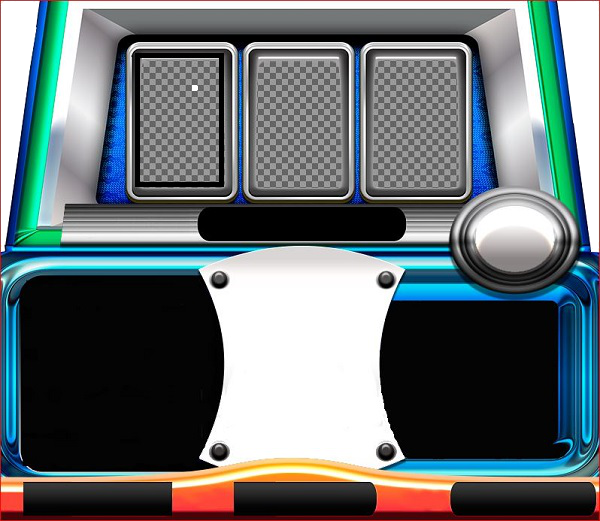
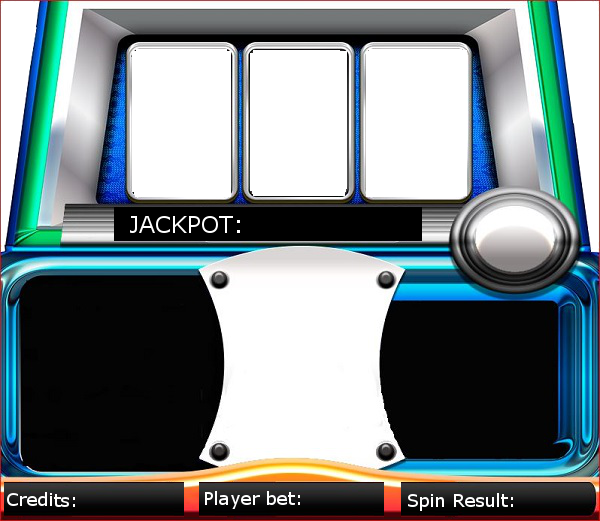
sdded config button and config classes

diff --git a/COMP397-SlotMachine/Scripts/game.js b/COMP397-SlotMachine/Scripts/game.js
@@ -3,6 +3,9 @@
 /// <reference path="typings/tweenjs/tweenjs.d.ts" />
 /// <reference path="typings/soundjs/soundjs.d.ts" />
 /// <reference path="typings/preloadjs/preloadjs.d.ts" />
+/// <reference path="../config/constants.ts" />
+/// <reference path="../objects/label.ts" />
+/// <reference path="../objects/button.ts" />
 // Game Framework Variables
 var canvas = document.getElementById("canvas");
 var stage;
@@ -12,8 +15,57 @@ var manifest = [
     { id: "background", src: "assets/images/slotmachine.png" },
     { id: "clicked", src: "assets/audio/clicked.wav" }
 ];
+var atlas = {
+    "images": [
+        "assets/images/atlas.png"
+    ],
+    "frames": [
+        [2, 2, 80, 112, 0, 0, 0],
+        [84, 2, 80, 105, 0, 0, 0],
+        [166, 2, 95, 97, 0, 0, 0],
+        [263, 2, 93, 97, 0, -1, -1],
+        [358, 2, 95, 96, 0, 0, 0],
+        [455, 2, 80, 88, 0, 0, 0],
+        [537, 2, 80, 85, 0, 0, 0],
+        [619, 2, 80, 84, 0, 0, 0],
+        [701, 2, 80, 78, 0, 0, 0],
+        [783, 2, 76, 76, 0, -2, -4],
+        [861, 2, 65, 67, 0, 0, 0],
+        [928, 2, 65, 67, 0, 0, 0],
+        [995, 2, 65, 67, 0, 0, 0],
+        [1062, 2, 65, 66, 0, 0, 0],
+        [1129, 2, 65, 66, 0, 0, 0],
+        [1196, 2, 65, 66, 0, 0, 0],
+        [1263, 2, 65, 66, 0, 0, 0],
+        [1330, 2, 65, 66, 0, 0, 0],
+        [1397, 2, 80, 62, 0, 0, 0]
+    ],
+    "animations": {
+        "777": [6],
+        "cup": [0],
+        "flag": [1],
+        "resetbutton": [2],
+        "powerbutton": [3],
+        "spin": [4],
+        "stadium": [5],
+        "blank": [7],
+        "whistle": [8],
+        "ball": [9],
+        "bet100": [10],
+        "bet50": [11],
+        "bet500": [12],
+        "bet1": [13],
+        "bet10": [14],
+        "bet2": [15],
+        "bet25": [16],
+        "bet5": [17],
+        "cards": [18]
+    }
+};
 // Game Variables
 var background;
+var textureAtlas;
+var spinButton;
 //preloader Function
 function preload() {
     assets = new createjs.LoadQueue();
@@ -21,6 +73,8 @@ function preload() {
     // event listinener handler triggers hwne assets are completely loaded
     assets.on("complete", init, this);
     assets.loadManifest(manifest);
+    //Load Texture Atlas
+    textureAtlas = new createjs.SpriteSheet(atlas);
     //setup staistics object
     setupStats();
     //call back function that Initializing game objects
@@ -49,7 +103,7 @@ function preload() {
         stage.update();
     }
     //callback function that allows me to respond to button click events
-    function pinkButtonClicked(event) {
+    function spinButtonClicked(event) {
         createjs.Sound.play("clicked");
     }
     //callback function that cahnges the alpha transparency of the button
@@ -59,6 +113,10 @@ function preload() {
         //add in slot matchine 
         background = new createjs.Bitmap(assets.getResult("background"));
         stage.addChild(background);
+        //add spinButton srpite
+        spinButton = new objects.Button("spin", 225, 334, false);
+        stage.addChild(spinButton);
+        spinButton.on("click", spinButtonClicked, this);
     }
 }
 //# sourceMappingURL=game.js.map

diff --git a/COMP397-SlotMachine/Scripts/game.ts b/COMP397-SlotMachine/Scripts/game.ts
@@ -3,6 +3,10 @@
 /// <reference path="typings/tweenjs/tweenjs.d.ts" />
 /// <reference path="typings/soundjs/soundjs.d.ts" />
 /// <reference path="typings/preloadjs/preloadjs.d.ts" />
+/// <reference path="../config/constants.ts" />
+/// <reference path="../objects/label.ts" />
+/// <reference path="../objects/button.ts" />
+
 
 
 // Game Framework Variables
@@ -15,9 +19,63 @@ var manifest = [
     { id: "clicked", src: "assets/audio/clicked.wav" }
 ];
 
+var atlas = {
+
+    "images": [
+        "assets/images/atlas.png"
+    ],
+
+    "frames": [
+        [2, 2, 80, 112, 0, 0, 0],
+        [84, 2, 80, 105, 0, 0, 0],
+        [166, 2, 95, 97, 0, 0, 0],
+        [263, 2, 93, 97, 0, -1, -1],
+        [358, 2, 95, 96, 0, 0, 0],
+        [455, 2, 80, 88, 0, 0, 0],
+        [537, 2, 80, 85, 0, 0, 0],
+        [619, 2, 80, 84, 0, 0, 0],
+        [701, 2, 80, 78, 0, 0, 0],
+        [783, 2, 76, 76, 0, -2, -4],
+        [861, 2, 65, 67, 0, 0, 0],
+        [928, 2, 65, 67, 0, 0, 0],
+        [995, 2, 65, 67, 0, 0, 0],
+        [1062, 2, 65, 66, 0, 0, 0],
+        [1129, 2, 65, 66, 0, 0, 0],
+        [1196, 2, 65, 66, 0, 0, 0],
+        [1263, 2, 65, 66, 0, 0, 0],
+        [1330, 2, 65, 66, 0, 0, 0],
+        [1397, 2, 80, 62, 0, 0, 0]
+    ],
+
+    "animations": {
+        "777": [6],
+        "cup": [0],
+        "flag": [1],
+        "resetbutton": [2],
+        "powerbutton": [3],
+        "spin": [4],
+        "stadium": [5],
+        "blank": [7],
+        "whistle": [8],
+        "ball": [9],
+        "bet100": [10],
+        "bet50": [11],
+        "bet500": [12],
+        "bet1": [13],
+        "bet10": [14],
+        "bet2": [15],
+        "bet25": [16],
+        "bet5": [17],
+        "cards": [18]
+    }
+};
+
 
 // Game Variables
 var background: createjs.Bitmap;
+var textureAtlas: createjs.SpriteSheet;
+
+var spinButton: objects.Button;
 
 
 
@@ -28,6 +86,11 @@ function preload() {
     // event listinener handler triggers hwne assets are completely loaded
     assets.on("complete", init, this);
     assets.loadManifest(manifest);
+
+    //Load Texture Atlas
+    textureAtlas = new createjs.SpriteSheet(atlas);
+
+
     //setup staistics object
     setupStats();
 
@@ -68,7 +131,7 @@ function preload() {
     }
 
     //callback function that allows me to respond to button click events
-    function pinkButtonClicked(event: createjs.MouseEvent) {
+    function spinButtonClicked(event: createjs.MouseEvent) {
         createjs.Sound.play("clicked");
     }
     //callback function that cahnges the alpha transparency of the button
@@ -81,6 +144,12 @@ function preload() {
         //add in slot matchine 
         background = new createjs.Bitmap(assets.getResult("background"));
         stage.addChild(background);
+
+
+        //add spinButton srpite
+        spinButton = new objects.Button("spin", 225, 334, false);
+        stage.addChild(spinButton);
+        spinButton.on("click", spinButtonClicked, this);
 
     }
 }

diff --git a/COMP397-SlotMachine/objects/button.js b/COMP397-SlotMachine/objects/button.js
@@ -1,0 +1,34 @@
+/// <reference path="../scripts/typings/easeljs/easeljs.d.ts" />
+var __extends = this.__extends || function (d, b) {
+    for (var p in b) if (b.hasOwnProperty(p)) d[p] = b[p];
+    function __() { this.constructor = d; }
+    __.prototype = b.prototype;
+    d.prototype = new __();
+};
+var objects;
+(function (objects) {
+    //BUTTON class +++++++++++++++++++++++++++++++++++++++++++++
+    var Button = (function (_super) {
+        __extends(Button, _super);
+        //CONSTRUCTOR ++++++++++++++++++++++++++++++++++++++++++
+        function Button(imageString, x, y, cen) {
+            _super.call(this, textureAtlas, imageString);
+            this.regX = this.getBounds().width * 0.5;
+            this.regY = this.getBounds().height * 0.5;
+            this.x = x;
+            this.y = y;
+            this.on("mouseover", this.OnOver, this);
+            this.on("mouseout", this.OnOut, this);
+        }
+        //PUBLIC METHODS ++++++++++++++++++++++++++++++++++++++=
+        Button.prototype.OnOver = function (event) {
+            this.alpha = 0.8; //80% opacity
+        };
+        Button.prototype.OnOut = function (event) {
+            this.alpha = 1.0; //100% opacity
+        };
+        return Button;
+    })(createjs.Sprite);
+    objects.Button = Button;
+})(objects || (objects = {}));
+//# sourceMappingURL=button.js.map

diff --git a/COMP397-SlotMachine/objects/button.ts b/COMP397-SlotMachine/objects/button.ts
@@ -1,0 +1,27 @@
+/// <reference path="../scripts/typings/easeljs/easeljs.d.ts" />
+
+module objects {
+    //BUTTON class +++++++++++++++++++++++++++++++++++++++++++++
+    export class Button extends createjs.Sprite {
+
+        //CONSTRUCTOR ++++++++++++++++++++++++++++++++++++++++++
+        constructor(imageString: string, x: number, y: number, cen) {
+            super(textureAtlas, imageString);
+            this.regX = this.getBounds().width * 0.5;
+            this.regY = this.getBounds().height * 0.5;
+            this.x = x;
+            this.y = y;
+
+            this.on("mouseover", this.OnOver, this);
+            this.on("mouseout", this.OnOut, this);
+        }
+        //PUBLIC METHODS ++++++++++++++++++++++++++++++++++++++=
+        public OnOver(event: createjs.MouseEvent): void {
+            this.alpha = 0.8; //80% opacity
+        }
+
+        public OnOut(event: createjs.MouseEvent): void {
+            this.alpha = 1.0; //100% opacity
+        }
+    }
+}

diff --git a/COMP397-SlotMachine/objects/label.js b/COMP397-SlotMachine/objects/label.js
@@ -1,0 +1,25 @@
+var __extends = this.__extends || function (d, b) {
+    for (var p in b) if (b.hasOwnProperty(p)) d[p] = b[p];
+    function __() { this.constructor = d; }
+    __.prototype = b.prototype;
+    d.prototype = new __();
+};
+var objects;
+(function (objects) {
+    var Label = (function (_super) {
+        __extends(Label, _super);
+        function Label(labelTextg, x, y, centered) {
+            _super.call(this, labelTextg, config.FONT_SMALL + " " +
+                config.FONT_FAMILY, config.BLACK);
+            if (centered) {
+                this.regX = this.getMeasuredWidth() * 0.5;
+                this.regY = this.getMeasuredHeight() * 0.5;
+            }
+            this.y = y;
+            this.x = x;
+        }
+        return Label;
+    })(createjs.Text);
+    objects.Label = Label;
+})(objects || (objects = {}));
+//# sourceMappingURL=label.js.map

diff --git a/COMP397-SlotMachine/index.html b/COMP397-SlotMachine/index.html
@@ -13,7 +13,7 @@
 </head>
 <body onload="preload();">
     <!-- Game Container -->
-    <canvas id="canvas" width="600" height="520"></canvas>
+    <canvas id="canvas" width="600" height="521"></canvas>
 
     <!-- JavaScript Section -->
     <script src="Scripts/lib/Stats.js"></script>
@@ -23,6 +23,9 @@
     <script src="Scripts/lib/preloadjs-0.6.0.min.js"></script>
 
     <!-- Game Scripts -->
+    <script src="config/constants.js"></script>
+    <script src="objects/label.js"></script>
+    <script src="objects/button.js"></script>
     <script src="Scripts/game.js"></script>
 </body>
 </html>

diff --git a/COMP397-SlotMachine/config/constants.ts b/COMP397-SlotMachine/config/constants.ts
@@ -1,0 +1,16 @@
+module config {
+    //FONT CONSTANTS
+    export var FONT_LABEL: string = "12px";
+    export var FONT_SMALL: string = "20px";
+    export var FONT_MEDIUM: string = "40px";
+    export var FONT_LARGE: string = "60px";
+    export var FONT_FAMILY: string = "Consolas";
+    
+
+    export var BLACK: string = "#000000";
+    export var WHITE: string = "#FFF";
+    export var YELLOW: string = "#FFFF00";
+    export var RED: string = "FF0000";
+    export var GREEN: string = "#00FF00";
+    export var BLUE: string = "#0000FF";
+}

diff --git a/COMP397-SlotMachine/objects/label.ts b/COMP397-SlotMachine/objects/label.ts
@@ -1,0 +1,17 @@
+module objects {
+    export class Label extends createjs.Text {
+        constructor(labelTextg: string, x: number, y: number, centered: boolean) {
+            super(labelTextg, config.FONT_SMALL + " " +
+                config.FONT_FAMILY, config.BLACK);
+
+            if (centered) {
+                this.regX = this.getMeasuredWidth() * 0.5;
+                this.regY = this.getMeasuredHeight() * 0.5;
+            }
+            this.y = y;
+            this.x = x;
+
+        
+        }
+    }
+}

diff --git a/COMP397-SlotMachine/config/constants.js b/COMP397-SlotMachine/config/constants.js
@@ -1,0 +1,16 @@
+var config;
+(function (config) {
+    //FONT CONSTANTS
+    config.FONT_LABEL = "12px";
+    config.FONT_SMALL = "20px";
+    config.FONT_MEDIUM = "40px";
+    config.FONT_LARGE = "60px";
+    config.FONT_FAMILY = "Consolas";
+    config.BLACK = "#000000";
+    config.WHITE = "#FFF";
+    config.YELLOW = "#FFFF00";
+    config.RED = "FF0000";
+    config.GREEN = "#00FF00";
+    config.BLUE = "#0000FF";
+})(config || (config = {}));
+//# sourceMappingURL=constants.js.map
